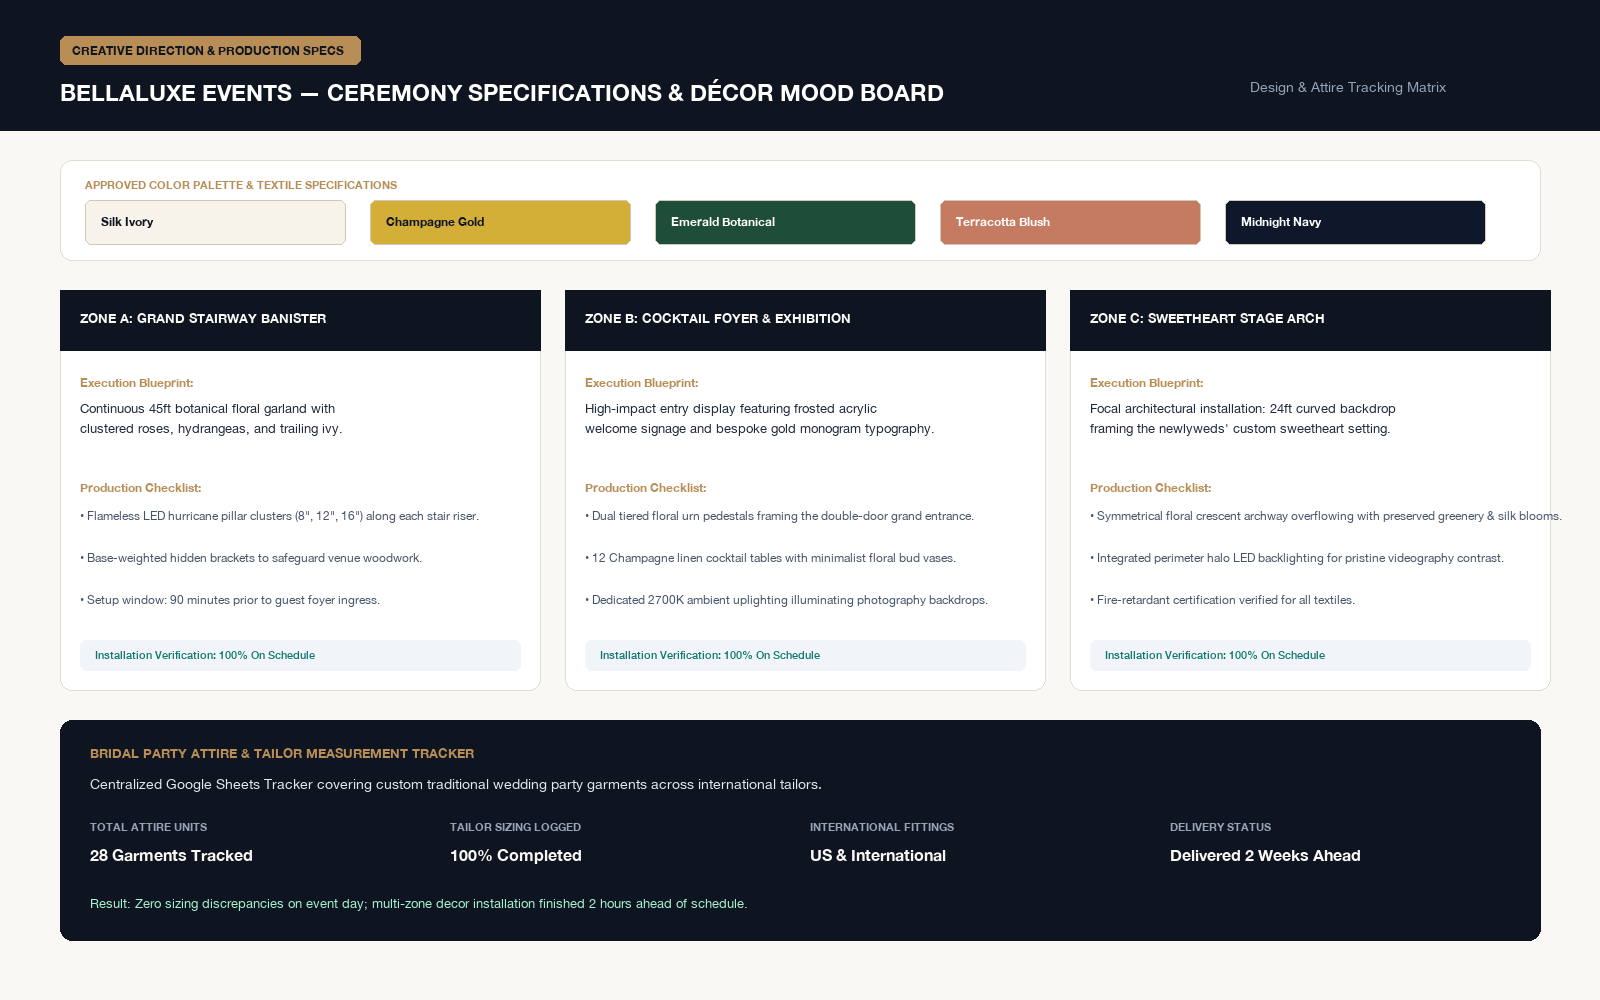
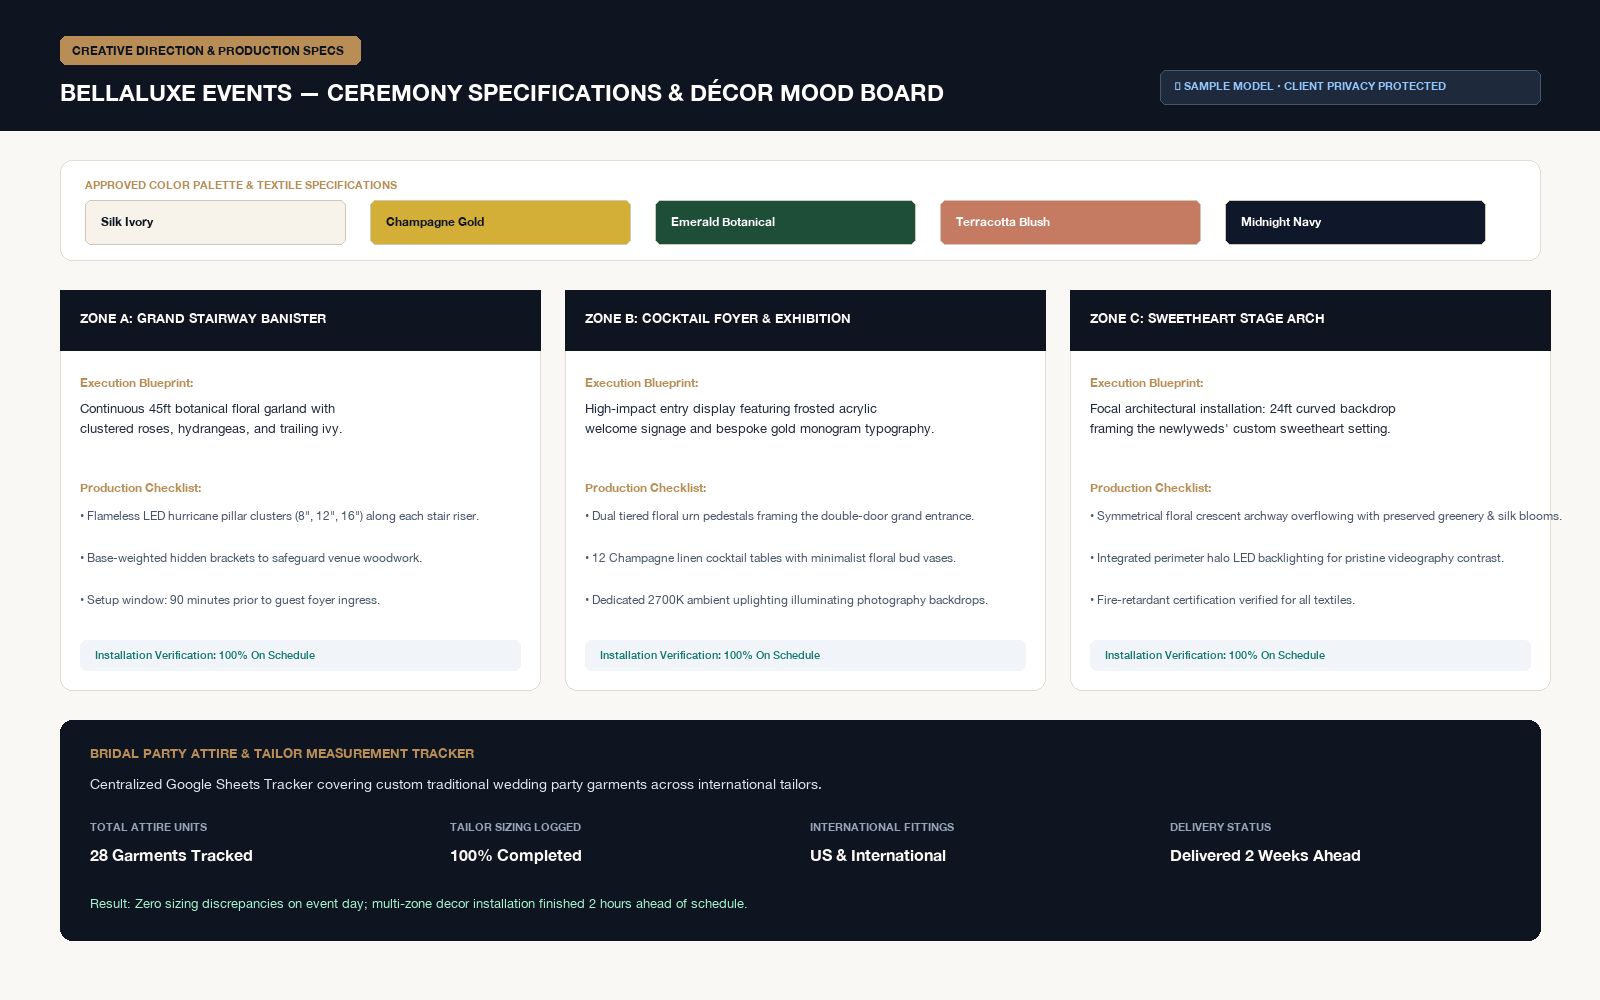
fixes

Changed region(s): [[0.7188, 0.062, 0.9688, 0.124]]

diff --git a/index.html b/index.html
@@ -532,6 +532,13 @@
           <p class="section-subtitle">
             Explore authentic project deliverables, spatial seating blueprints, vendor matrices, and brand collateral executed for US & UK clients.
           </p>
+          <div class="privacy-disclaimer-pill">
+            <svg width="14" height="14" viewBox="0 0 24 24" fill="none" stroke="currentColor" stroke-width="2">
+              <rect x="3" y="11" width="18" height="11" rx="2" ry="2"></rect>
+              <path d="M7 11V7a5 5 0 0 1 10 0v4"></path>
+            </svg>
+            <span><strong>Client Privacy Protected:</strong> Deliverable previews and figures are anonymised sample models to protect proprietary business data while illustrating methodology.</span>
+          </div>
         </div>
 
         <!-- Filter Bar -->
@@ -1130,6 +1137,14 @@
         <div class="modal-meta-row">
           <span class="modal-badge" id="modalBadge">Operations & Logistics</span>
           <span class="modal-client-name" id="modalClient">Client Name</span>
+        </div>
+
+        <div class="modal-privacy-note">
+          <svg width="14" height="14" viewBox="0 0 24 24" fill="none" stroke="currentColor" stroke-width="2">
+            <rect x="3" y="11" width="18" height="11" rx="2" ry="2"></rect>
+            <path d="M7 11V7a5 5 0 0 1 10 0v4"></path>
+          </svg>
+          <span><strong>Commercial Confidentiality:</strong> This visual preview is an anonymised sample model. Client proprietary data, private contact information, and guest names have been protected.</span>
         </div>
 
         <h3 class="modal-title" id="modalTitle">Case Study Title</h3>

diff --git a/css/style.css b/css/style.css
@@ -970,6 +970,29 @@ button, input, textarea {
   position: relative;
 }
 
+.privacy-disclaimer-pill {
+  display: inline-flex;
+  align-items: center;
+  gap: 8px;
+  margin-top: 18px;
+  padding: 8px 18px;
+  background: rgba(184, 142, 86, 0.08);
+  border: 1px solid rgba(184, 142, 86, 0.22);
+  border-radius: var(--radius-full);
+  font-size: 0.82rem;
+  color: var(--text-secondary);
+  line-height: 1.4;
+  max-width: 720px;
+  margin-left: auto;
+  margin-right: auto;
+  text-align: left;
+}
+
+.privacy-disclaimer-pill svg {
+  color: var(--accent-gold);
+  flex-shrink: 0;
+}
+
 .portfolio-filter-bar {
   display: flex;
   align-items: center;
@@ -1977,6 +2000,25 @@ button, input, textarea {
   align-items: center;
   gap: 12px;
   margin-bottom: 12px;
+}
+
+.modal-privacy-note {
+  display: flex;
+  align-items: center;
+  gap: 8px;
+  padding: 8px 14px;
+  background: var(--bg-primary);
+  border: 1px solid var(--border-light);
+  border-radius: var(--radius-md);
+  margin-bottom: 18px;
+  font-size: 0.8rem;
+  color: var(--text-muted);
+  line-height: 1.4;
+}
+
+.modal-privacy-note svg {
+  color: var(--accent-gold);
+  flex-shrink: 0;
 }
 
 .modal-badge {
